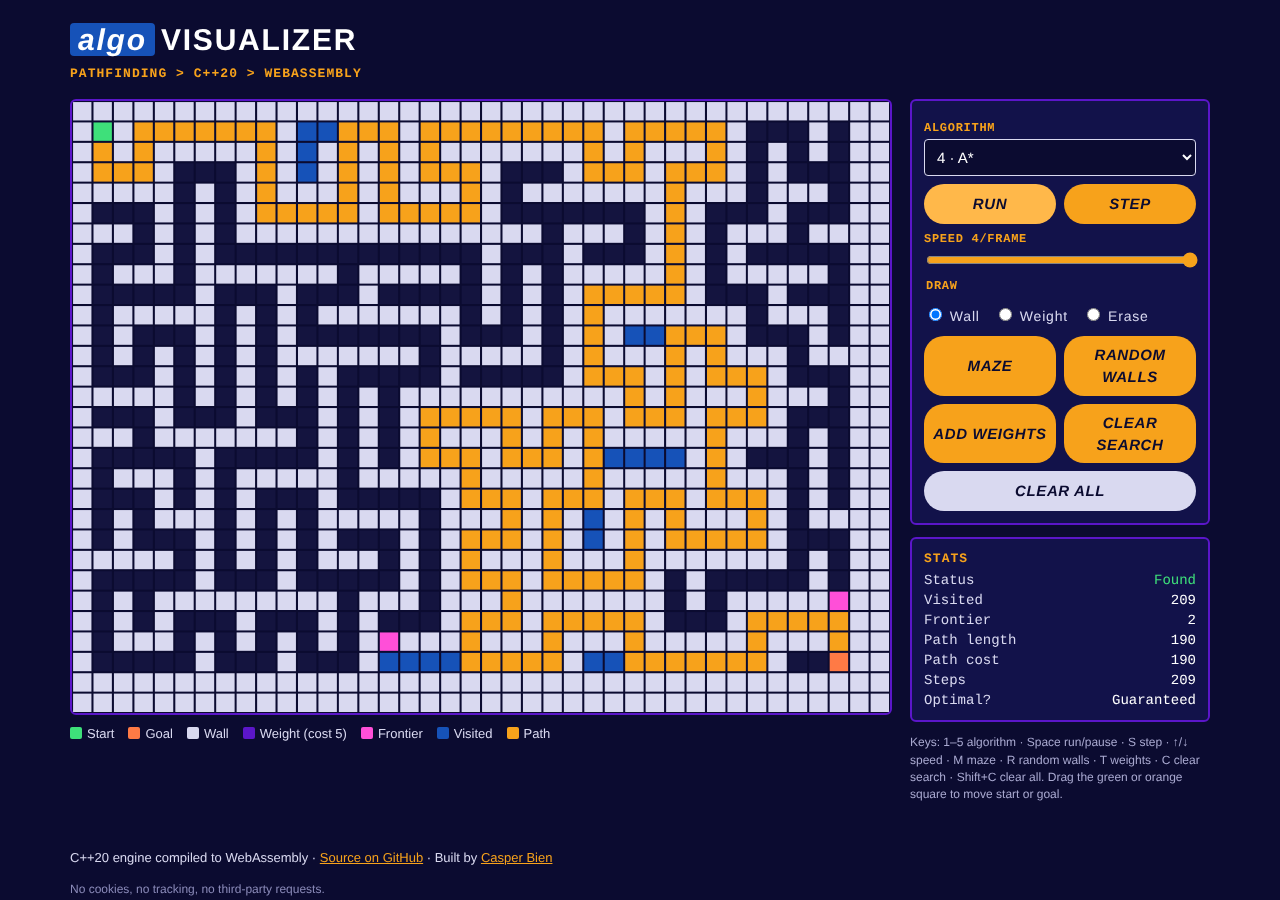
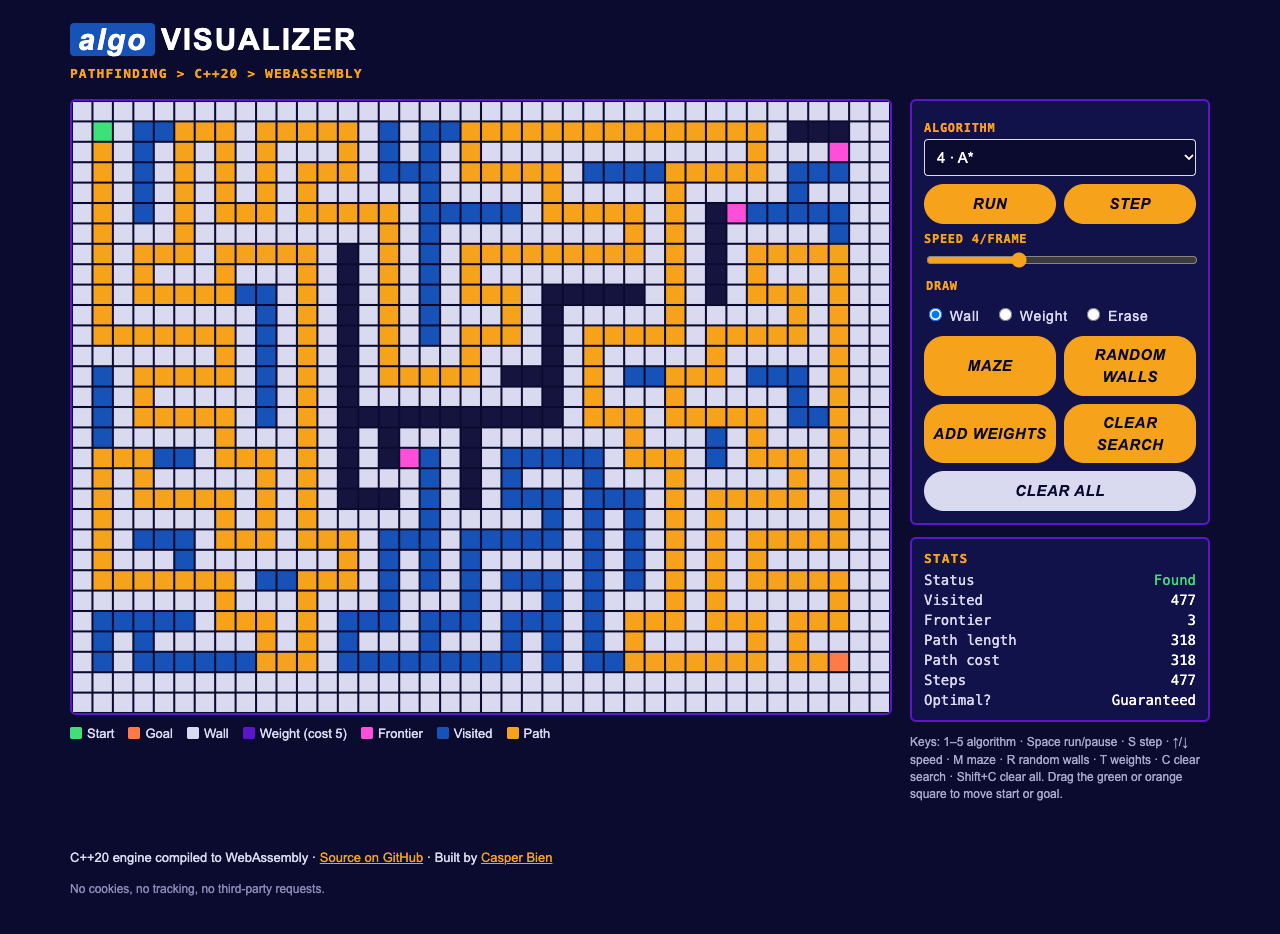
docs: retake web demo screenshot from the live site; record verified checks

diff --git a/ROADMAP.md b/ROADMAP.md
@@ -2,9 +2,9 @@
 
 ## Done (v1.0.0)
 - Core engine: Grid, five step-wise searches, seeded maze, random walls and weights, stats.
-- Catch2 suite: 20 test cases, all passing with warnings as errors (Apple Clang, macOS).
+- Catch2 suite: 20 test cases, all passing with warnings as errors (Apple Clang on macOS; GCC on Linux and MSYS2 in CI).
 - SFML 3 desktop app (built-in pixel font, demo and smoke-test flags). Builds against SFML 3.0.2; smoke-tested headless under Xvfb.
-- WebAssembly front end (embind + Canvas 2D, mouse and touch, Night Shift palette). Checked in headless Chrome at 1280 and 390 px wide: an A* maze solve reaches "Found", drag-drawing works, no horizontal scroll, no console errors.
+- WebAssembly front end (embind + Canvas 2D, mouse and touch, Night Shift palette). Checked live on GitHub Pages in headless Chrome at 1280 and 390 px wide: an A* maze solve reaches "Found", drag-drawing works, keyboard shortcuts work after clicking a button, no horizontal scroll, no console errors.
 - CI (Linux, macOS, Windows MSYS2) and the GitHub Pages deploy workflow.
 
 ## Next (ideas)
